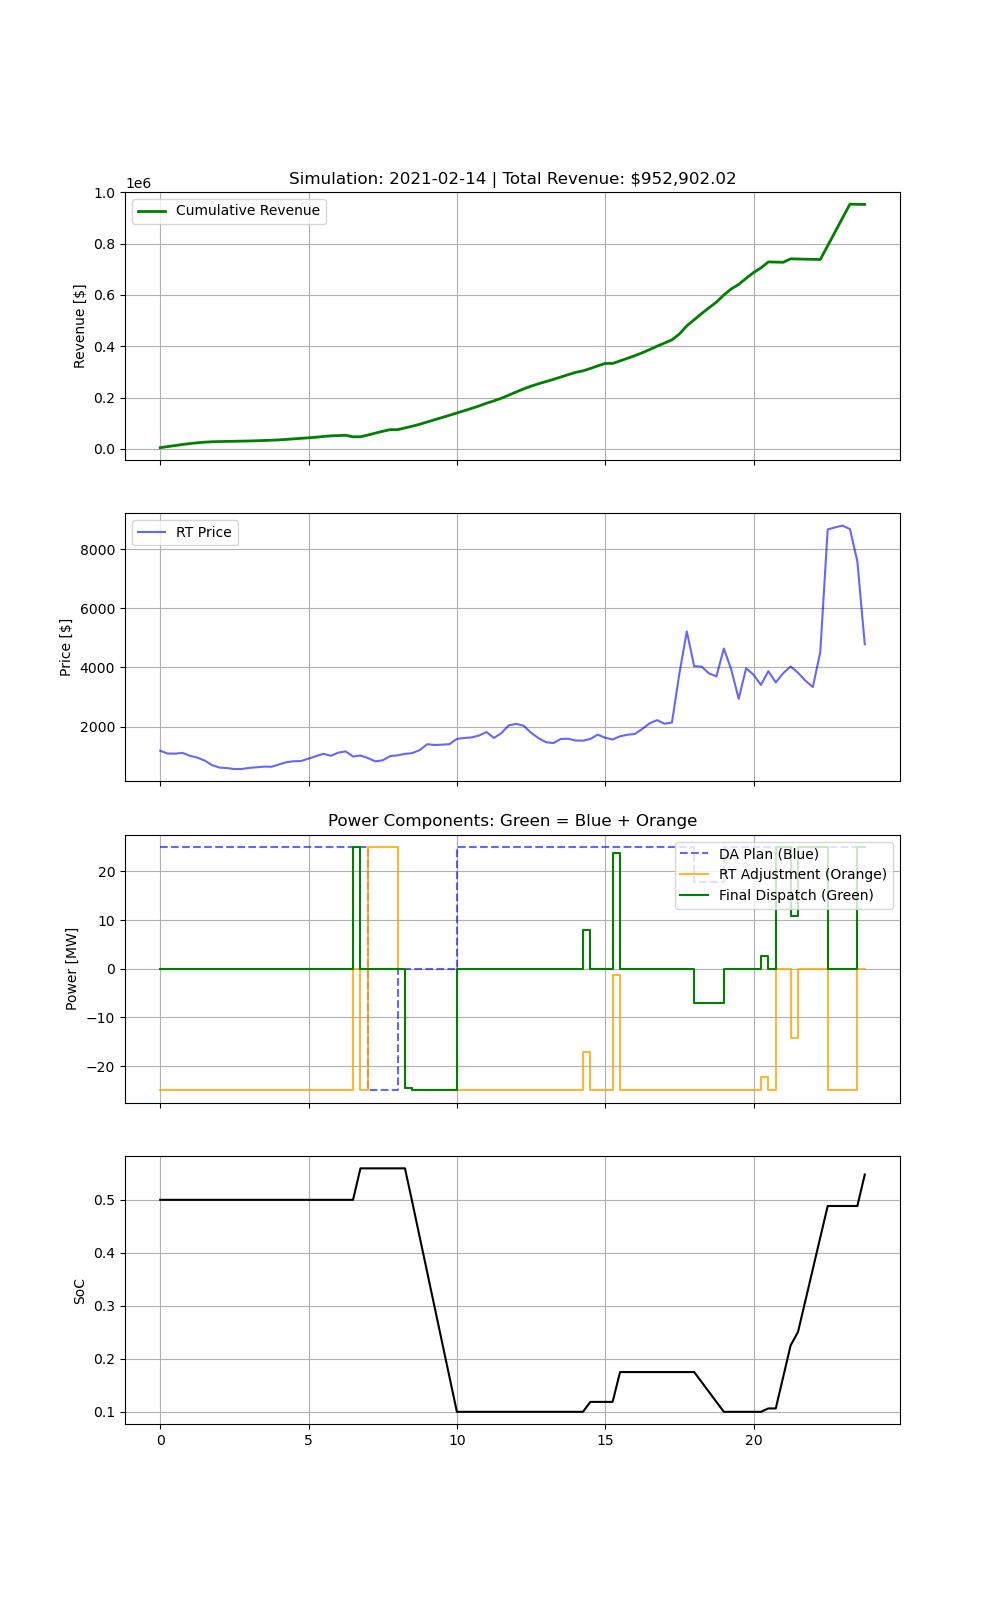
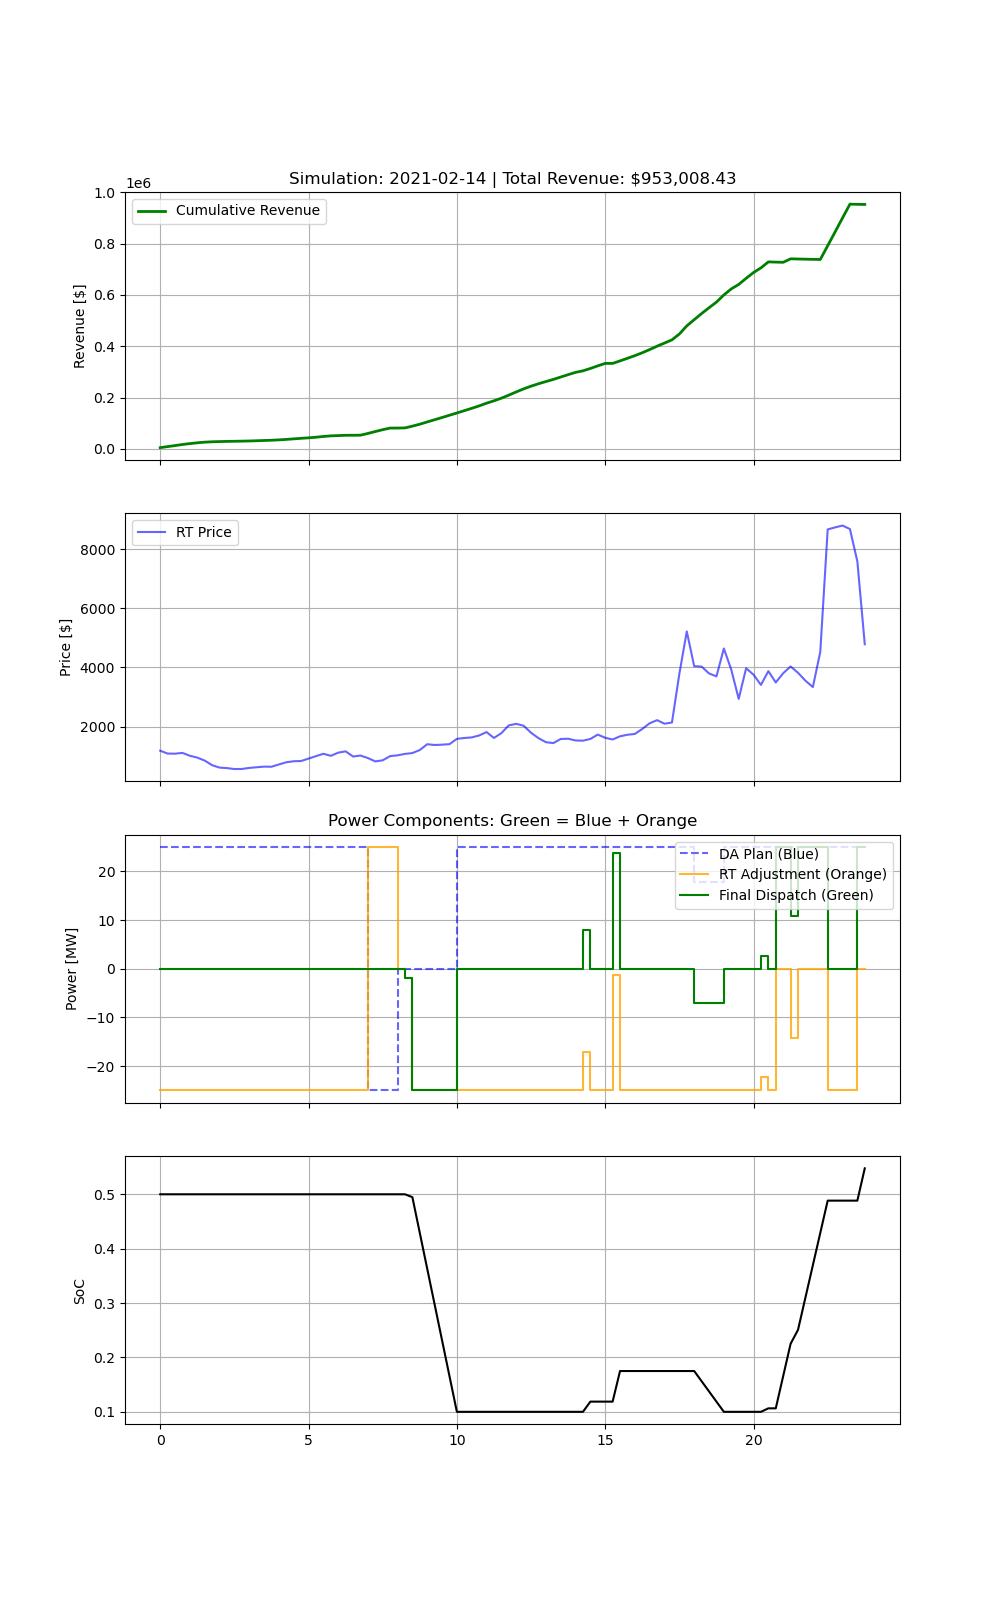
Avoid tracking cost

diff --git a/src/stage2_rt_mpc.py b/src/stage2_rt_mpc.py
@@ -128,7 +128,8 @@ def solve_rt_mpc(
         # Slack Penalty
         cost_slack = sum(w_slack * m.s_soc[t] for t in m.T_E)
         
-        return cost_market + cost_tracking + cost_slack
+        #return cost_market + cost_tracking + cost_slack
+        return cost_market + cost_slack
 
     model.objective = pyo.Objective(rule=obj_rule, sense=pyo.minimize)
 
